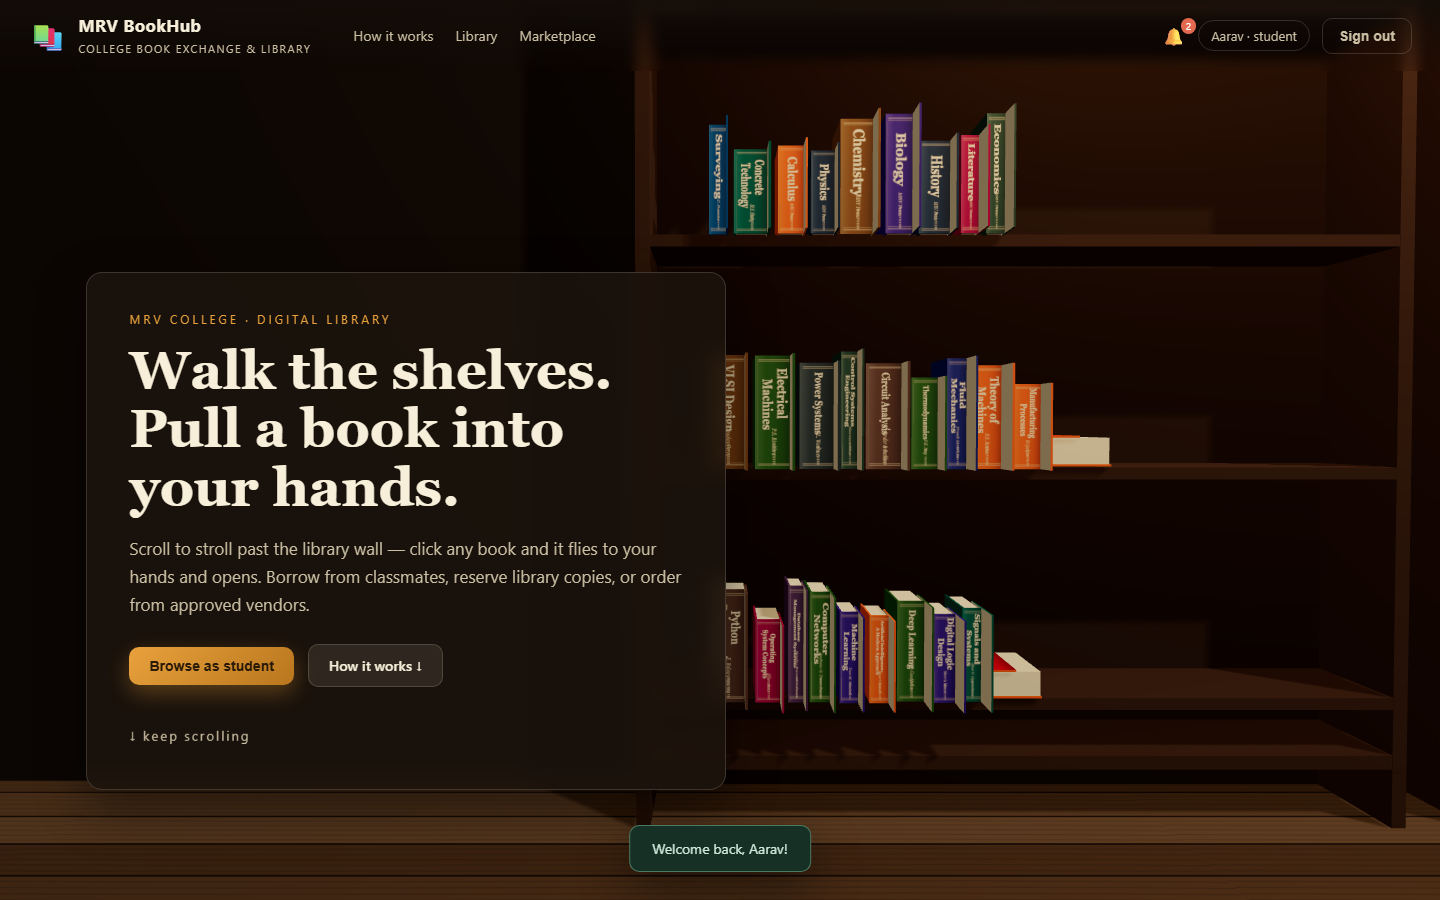
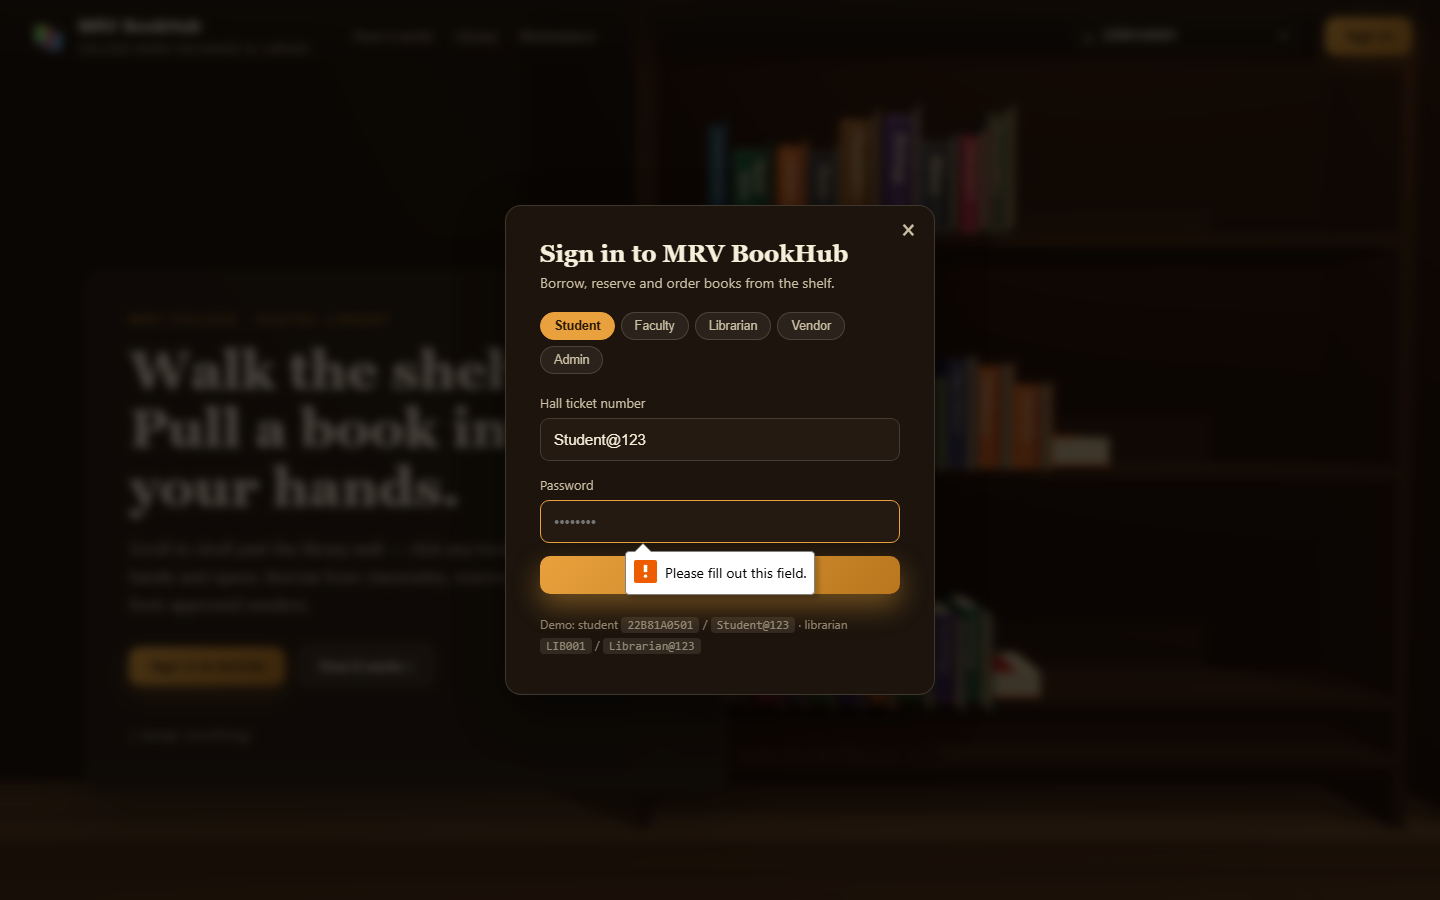
Fix last-page artifact: hide under-leaves at rest, clean left/right page textures

diff --git a/frontend/src/three/Book.jsx b/frontend/src/three/Book.jsx
@@ -87,69 +87,27 @@ function easeInOutCubic(t) {
   return t < 0.5 ? 4 * t * t * t : 1 - Math.pow(-2 * t + 2, 3) / 2;
 }
 
-/* ---- a page plane with a soft gutter shadow ------------------------ */
-function makeShadowMaterial() {
-  const c = document.createElement('canvas');
-  c.width = 256; c.height = 8;
-  const ctx = c.getContext('2d');
-  const grad = ctx.createLinearGradient(0, 0, 256, 0);
-  grad.addColorStop(0, 'rgba(40,25,10,0.32)');
-  grad.addColorStop(0.25, 'rgba(40,25,10,0.12)');
-  grad.addColorStop(0.6, 'rgba(40,25,10,0.0)');
-  grad.addColorStop(1, 'rgba(40,25,10,0)');
-  ctx.fillStyle = grad;
-  ctx.fillRect(0, 0, 256, 8);
-  const tex = new THREE.CanvasTexture(c);
-  tex.colorSpace = THREE.SRGBColorSpace;
-  return new THREE.MeshBasicMaterial({
-    map: tex, transparent: true, opacity: 0, toneMapped: false,
-    side: THREE.DoubleSide, depthWrite: false,
-  });
-}
-
-function PagePlane({ texture, backTexture, geometry, shadowGeometry, planeRef }) {
+/* ---- a page plane --------------------------------------------------- */
+function PagePlane({ texture, backTexture, geometry, planeRef, flipU = false }) {
   const mat = useMemo(() => {
-    if (!backTexture) {
-      return new THREE.MeshBasicMaterial({
-        map: texture, toneMapped: false, side: THREE.DoubleSide,
-      });
+    let map = texture;
+    if (flipU && texture) {
+      map = texture.clone();
+      map.wrapS = THREE.RepeatWrapping;
+      map.repeat.x = -1;
+      map.offset.x = 1;
+      map.needsUpdate = true;
     }
-    // Show a different, correctly-oriented printed page on each side.
-    return new THREE.ShaderMaterial({
-      side: THREE.DoubleSide,
-      uniforms: {
-        frontMap: { value: texture },
-        backMap: { value: backTexture },
-      },
-      vertexShader: `
-        varying vec2 vUv;
-        void main() {
-          vUv = uv;
-          gl_Position = projectionMatrix * modelViewMatrix * vec4(position, 1.0);
-        }
-      `,
-      fragmentShader: `
-        uniform sampler2D frontMap;
-        uniform sampler2D backMap;
-        varying vec2 vUv;
-        void main() {
-          // At rest we look at the front of the sheet. As the page rotates
-          // past the reader, the reverse becomes visible and carries the
-          // incoming page — mirrored back so it reads correctly.
-          vec4 c = gl_FrontFacing
-            ? texture2D(frontMap, vUv)
-            : texture2D(backMap, vec2(1.0 - vUv.x, vUv.y));
-          gl_FragColor = c;
-        }
-      `,
-    });
-  }, [texture, backTexture]);
-  const shadowMat = useMemo(() => makeShadowMaterial(), []);
-  useEffect(() => () => { shadowMat.map?.dispose(); shadowMat.dispose(); }, [shadowMat]);
+    return new THREE.MeshBasicMaterial({ map, toneMapped: false, side: THREE.DoubleSide });
+  }, [texture, flipU]);
+  // Reverse side texture (used only while the page is turning)
+  const backMat = useMemo(() => new THREE.MeshBasicMaterial({
+    map: backTexture || texture, toneMapped: false, side: THREE.DoubleSide,
+  }), [backTexture, texture]);
   return (
     <group ref={planeRef}>
       <mesh geometry={geometry} material={mat} frustumCulled={false} />
-      <mesh geometry={shadowGeometry} material={shadowMat} position={[0, 0, 0.002]} frustumCulled={false} />
+      <mesh geometry={geometry} material={backMat} position={[0, 0, -0.001]} frustumCulled={false} visible={false} />
     </group>
   );
 }
@@ -350,18 +308,10 @@ export default function Book({ book, isHeld, onSelect }) {
         rightPlane.current.rotation.y = OPEN_ANGLE * e * 0.9 * turnRef.current.dir;
         rightPlane.current.position.z = mid * w * 0.25;
         rightPlane.current.position.y = mid * h * 0.04;
-        const shadow = rightPlane.current.children[1]?.material;
-        if (shadow) shadow.opacity = mid * 0.85;
-        // Hide readable print mid-turn — a real page is a blur of paper then;
-        // this also avoids showing mirrored text on the sheet's reverse.
-        const sheet = rightPlane.current.children[0]?.material;
-        if (sheet?.uniforms) {
-          sheet.uniforms.frontMap.value = mid > 0.25 ? pagesTex : rightTex;
-          sheet.uniforms.backMap.value = mid > 0.25 ? pagesTex : (pageTextures[Math.min(5, spread * 2 + 2)] || pagesTex);
-        }
         // stacked sheets peel with a slight stagger
         underLeaves.current.forEach((leaf, i) => {
           if (!leaf) return;
+          leaf.visible = true;
           const stagger = Math.min(1, Math.max(0, (p - 0.06 * (i + 1)) / 0.94));
           const se = easeInOutCubic(stagger);
           const sm = Math.sin(stagger * Math.PI);
@@ -378,16 +328,9 @@ export default function Book({ book, isHeld, onSelect }) {
         if (rightPlane.current) {
           rightPlane.current.rotation.y = 0;
           rightPlane.current.position.set(0, 0, 0);
-          const shadow = rightPlane.current.children[1]?.material;
-          if (shadow) shadow.opacity = 0;
-          const sheet = rightPlane.current.children[0]?.material;
-          if (sheet?.uniforms) {
-            sheet.uniforms.frontMap.value = rightTex;
-            sheet.uniforms.backMap.value = pageTextures[Math.min(5, spread * 2 + 2)] || pagesTex;
-          }
         }
         underLeaves.current.forEach((leaf) => {
-          if (leaf) { leaf.rotation.y = 0; leaf.position.set(0, 0, 0); }
+          if (leaf) { leaf.visible = false; leaf.rotation.y = 0; leaf.position.set(0, 0, 0); }
         });
         bendTurn(curlGeo, 0, 0);
       }
@@ -396,16 +339,9 @@ export default function Book({ book, isHeld, onSelect }) {
       if (rightPlane.current) {
         rightPlane.current.rotation.y = 0;
         rightPlane.current.position.set(0, 0, 0);
-        const shadow = rightPlane.current.children[1]?.material;
-        if (shadow) shadow.opacity = 0;
-        const sheet = rightPlane.current.children[0]?.material;
-        if (sheet?.uniforms) {
-          sheet.uniforms.frontMap.value = rightTex;
-          sheet.uniforms.backMap.value = pageTextures[Math.min(5, spread * 2 + 2)] || pagesTex;
-        }
       }
       underLeaves.current.forEach((leaf) => {
-        if (leaf) { leaf.rotation.y = 0; leaf.position.set(0, 0, 0); }
+        if (leaf) { leaf.visible = false; leaf.rotation.y = 0; leaf.position.set(0, 0, 0); }
       });
     }
     // update which printed spread is visible (commits at the flip midpoint)
@@ -458,7 +394,8 @@ export default function Book({ book, isHeld, onSelect }) {
       {/* While reading, the cloth cover lies flat on the left of the spread */}
       {showSpread && (
         <group position={[-w / 2 + t / 2, 0, d / 2 + 0.006]} rotation={[0, -OPEN_ANGLE, 0]}>
-          <mesh material={coverMat}>
+          {/* inner face is plain cream endpaper; cloth faces away */}
+          <mesh material={mats.inside}>
             <boxGeometry args={[w, h, t]} />
           </mesh>
         </group>
@@ -467,12 +404,9 @@ export default function Book({ book, isHeld, onSelect }) {
       {/* Open spread: static left + right pages, hinged at the spine */}
       {showSpread && (
         <group position={[-w / 2 + t / 2, 0, d / 2 + 0.012]}>
-          {/* Left page lies flat to the left of the spine. Mirror the plane
-              locally so its print reads correctly from the reader's side. */}
+          {/* Left page lies flat to the left of the spine */}
           <group rotation={[0, -OPEN_ANGLE, 0]}>
-            <group scale={[-1, 1, 1]}>
-              <PagePlane texture={leftTex} geometry={pageGeo} shadowGeometry={pageGeo} />
-            </group>
+            <PagePlane texture={leftTex} geometry={pageGeo} flipU />
           </group>
           {/* Thin sheets beneath the turning page — they peel with a stagger */}
           {[0, 1, 2].map((i) => (
@@ -480,6 +414,7 @@ export default function Book({ book, isHeld, onSelect }) {
               key={i}
               ref={(el) => { underLeaves.current[i] = el; }}
               position={[0, 0, -0.003 * (i + 1)]}
+              visible={false}
             >
               <mesh geometry={pageGeo} frustumCulled={false}>
                 <meshBasicMaterial color="#efe4c9" side={THREE.DoubleSide} toneMapped={false} />
@@ -492,7 +427,6 @@ export default function Book({ book, isHeld, onSelect }) {
             texture={rightTex}
             backTexture={pageTextures[Math.min(5, spread * 2 + 2)] || pagesTex}
             geometry={curlGeo}
-            shadowGeometry={pageGeo}
             planeRef={rightPlane}
           />
         </group>

diff --git a/frontend/tests/final-page-check.py b/frontend/tests/final-page-check.py
@@ -1,0 +1,22 @@
+"""Scroll to the last page and verify it settles cleanly (no grid, no mirror)."""
+from playwright.sync_api import sync_playwright
+
+with sync_playwright() as p:
+    b = p.chromium.launch(headless=True, args=["--use-gl=swiftshader"])
+    page = b.new_page(viewport={"width": 1440, "height": 900})
+    errs = []
+    page.on("pageerror", lambda e: errs.append(str(e)))
+    page.goto("http://localhost:5173", wait_until="networkidle")
+    page.wait_for_timeout(3500)
+    page.mouse.wheel(0, 400); page.wait_for_timeout(1200)
+    page.mouse.move(975, 425); page.wait_for_timeout(400)
+    page.mouse.click(975, 425); page.wait_for_timeout(3000)
+    for i in range(6):
+        page.mouse.wheel(0, 200)
+        page.wait_for_timeout(700)
+    page.wait_for_timeout(2000)  # let the last flip fully settle
+    counter = page.locator(".page-counter").inner_text() if page.locator(".page-counter").count() else "?"
+    print("counter:", counter)
+    page.screenshot(path="tests/screenshots/final-page.png")
+    print("errors:", errs[:2] or "none")
+    b.close()

diff --git a/verify-login2.py b/verify-login2.py
@@ -1,0 +1,24 @@
+from playwright.sync_api import sync_playwright
+
+URL = "https://mrv-deploy.vercel.app"
+with sync_playwright() as p:
+    b = p.chromium.launch(headless=True, args=["--use-gl=swiftshader"])
+    page = b.new_page(viewport={"width": 1440, "height": 900})
+    errs = []
+    page.on("pageerror", lambda e: errs.append(str(e)))
+    resp = page.goto(URL, wait_until="networkidle", timeout=60000)
+    page.wait_for_timeout(4000)
+    print("search box:", page.locator('input[type="search"]').count())
+    page.get_by_role("button", name="Sign in").first.click()
+    page.wait_for_timeout(500)
+    modal = page.locator(".modal")
+    inputs = modal.locator("input")
+    print("modal inputs:", inputs.count())
+    inputs.nth(0).fill("22B81A0501")
+    inputs.nth(1).fill("Student@123")
+    modal.get_by_role("button", name="Sign in").click()
+    page.wait_for_timeout(2500)
+    body = page.inner_text("body")
+    print("welcome:", "Welcome" in body, "notif:", "🔔" in body)
+    print("errors:", errs[:2] or "none")
+    b.close()

diff --git a/frontend/tests/final-state.py b/frontend/tests/final-state.py
@@ -1,0 +1,21 @@
+from playwright.sync_api import sync_playwright
+
+with sync_playwright() as p:
+    b = p.chromium.launch(headless=True, args=["--use-gl=swiftshader"])
+    page = b.new_page(viewport={"width": 1440, "height": 900})
+    page.goto("http://localhost:5173", wait_until="networkidle")
+    page.wait_for_timeout(3500)
+    page.mouse.wheel(0, 400); page.wait_for_timeout(1200)
+    page.mouse.move(975, 425); page.wait_for_timeout(400)
+    page.mouse.click(975, 425); page.wait_for_timeout(3000)
+    for i in range(6):
+        page.mouse.wheel(0, 200); page.wait_for_timeout(700)
+    page.wait_for_timeout(2000)
+    st = page.evaluate("""() => {
+      const plane = document.querySelector('canvas');
+      // find R3F root via canvas __r3f
+      const root = plane.__r3f?.root?.getState?.() || window.__r3f;
+      return { hasRoot: !!root };
+    }""")
+    print(st)
+    b.close()

diff --git a/frontend/tests/final-state2.py b/frontend/tests/final-state2.py
@@ -1,0 +1,15 @@
+from playwright.sync_api import sync_playwright
+
+with sync_playwright() as p:
+    b = p.chromium.launch(headless=True, args=["--use-gl=swiftshader"])
+    page = b.new_page(viewport={"width": 1440, "height": 900})
+    page.goto("http://localhost:5173", wait_until="networkidle")
+    page.wait_for_timeout(3500)
+    page.mouse.wheel(0, 400); page.wait_for_timeout(1200)
+    page.mouse.move(975, 425); page.wait_for_timeout(400)
+    page.mouse.click(975, 425); page.wait_for_timeout(3000)
+    for i in range(6):
+        page.mouse.wheel(0, 200); page.wait_for_timeout(700)
+    page.wait_for_timeout(2000)
+    print("state:", page.evaluate("() => window.__finalState"))
+    b.close()

diff --git a/frontend/tests/improvements-check.py b/frontend/tests/improvements-check.py
@@ -40,7 +40,7 @@ with sync_playwright() as p:
 
     # 8. Keyboard turn
     page.keyboard.press("ArrowRight")
-    page.wait_for_timeout(1600)
+    page.wait_for_timeout(2600)
     body2 = page.inner_text("body")
     check("keyboard turned page (hint gone)", "to turn the pages" not in body2.lower(),
           "hint still present")
